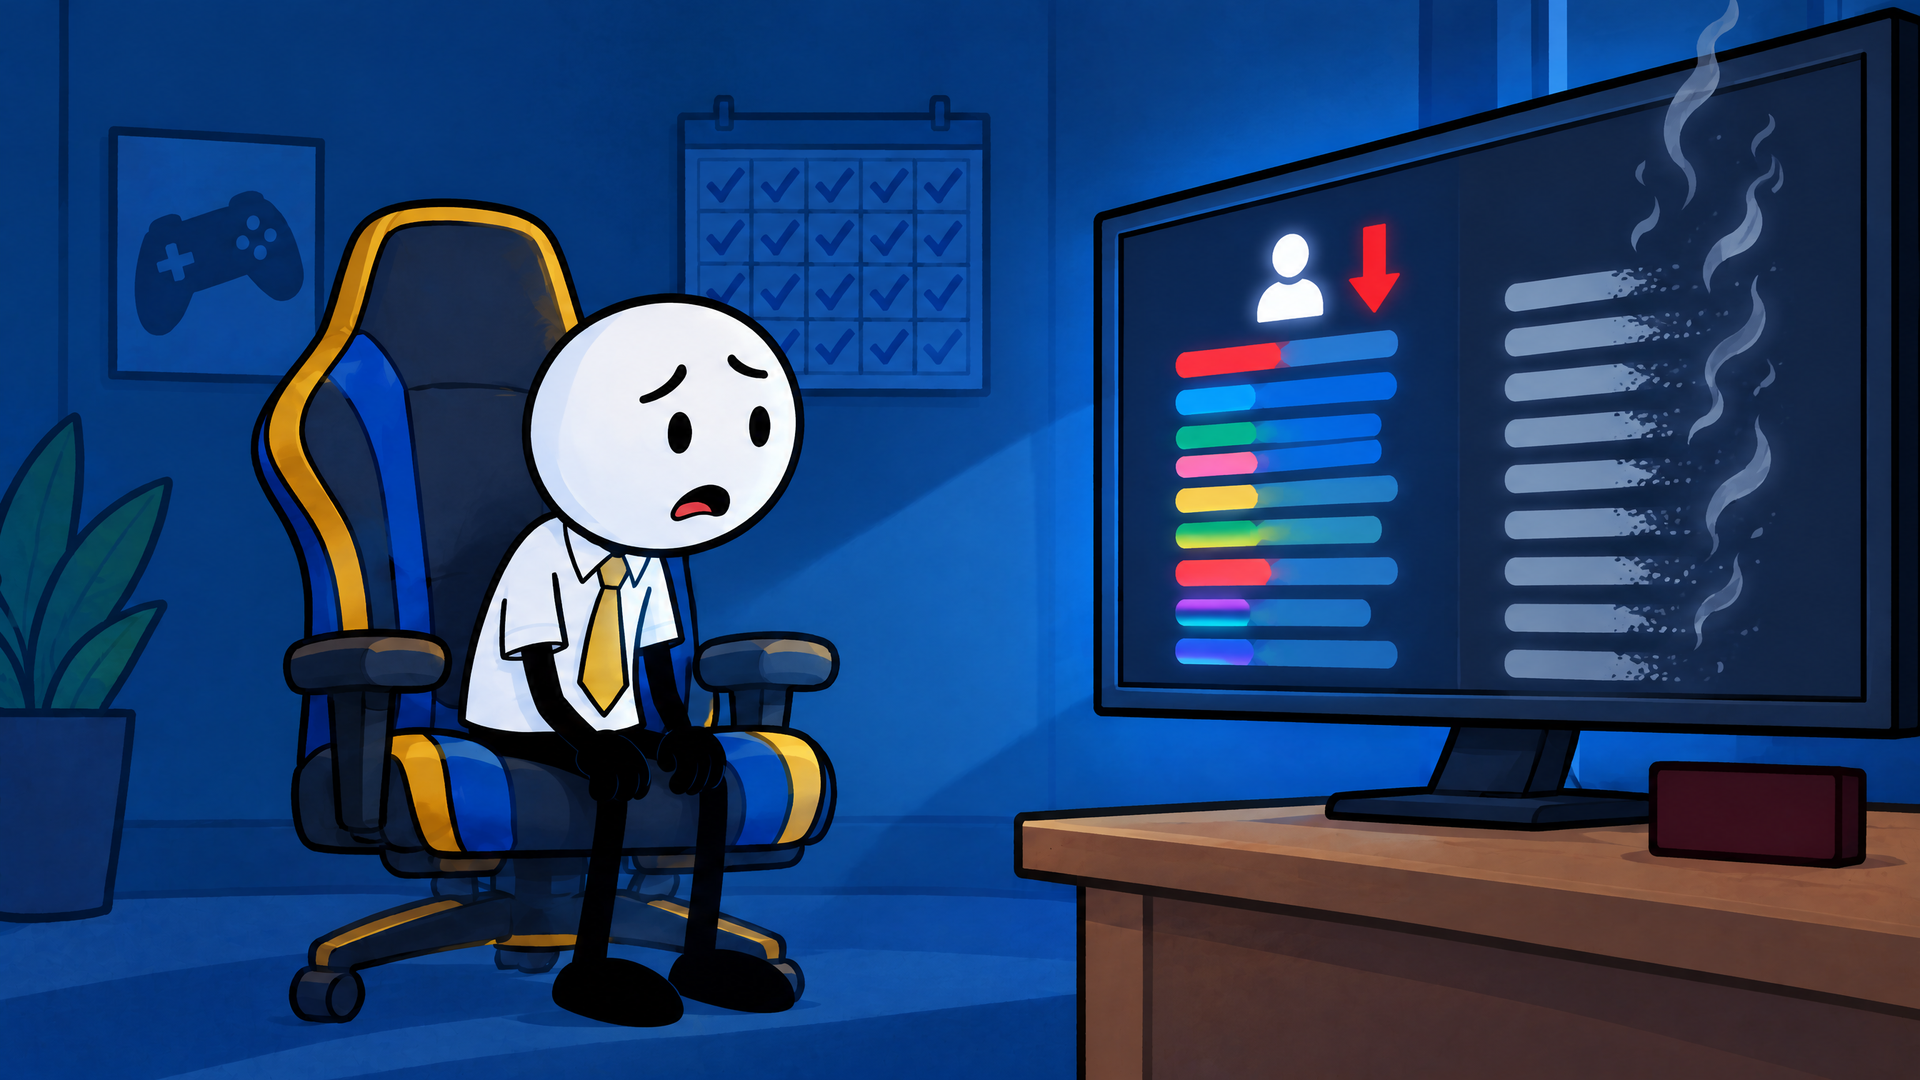
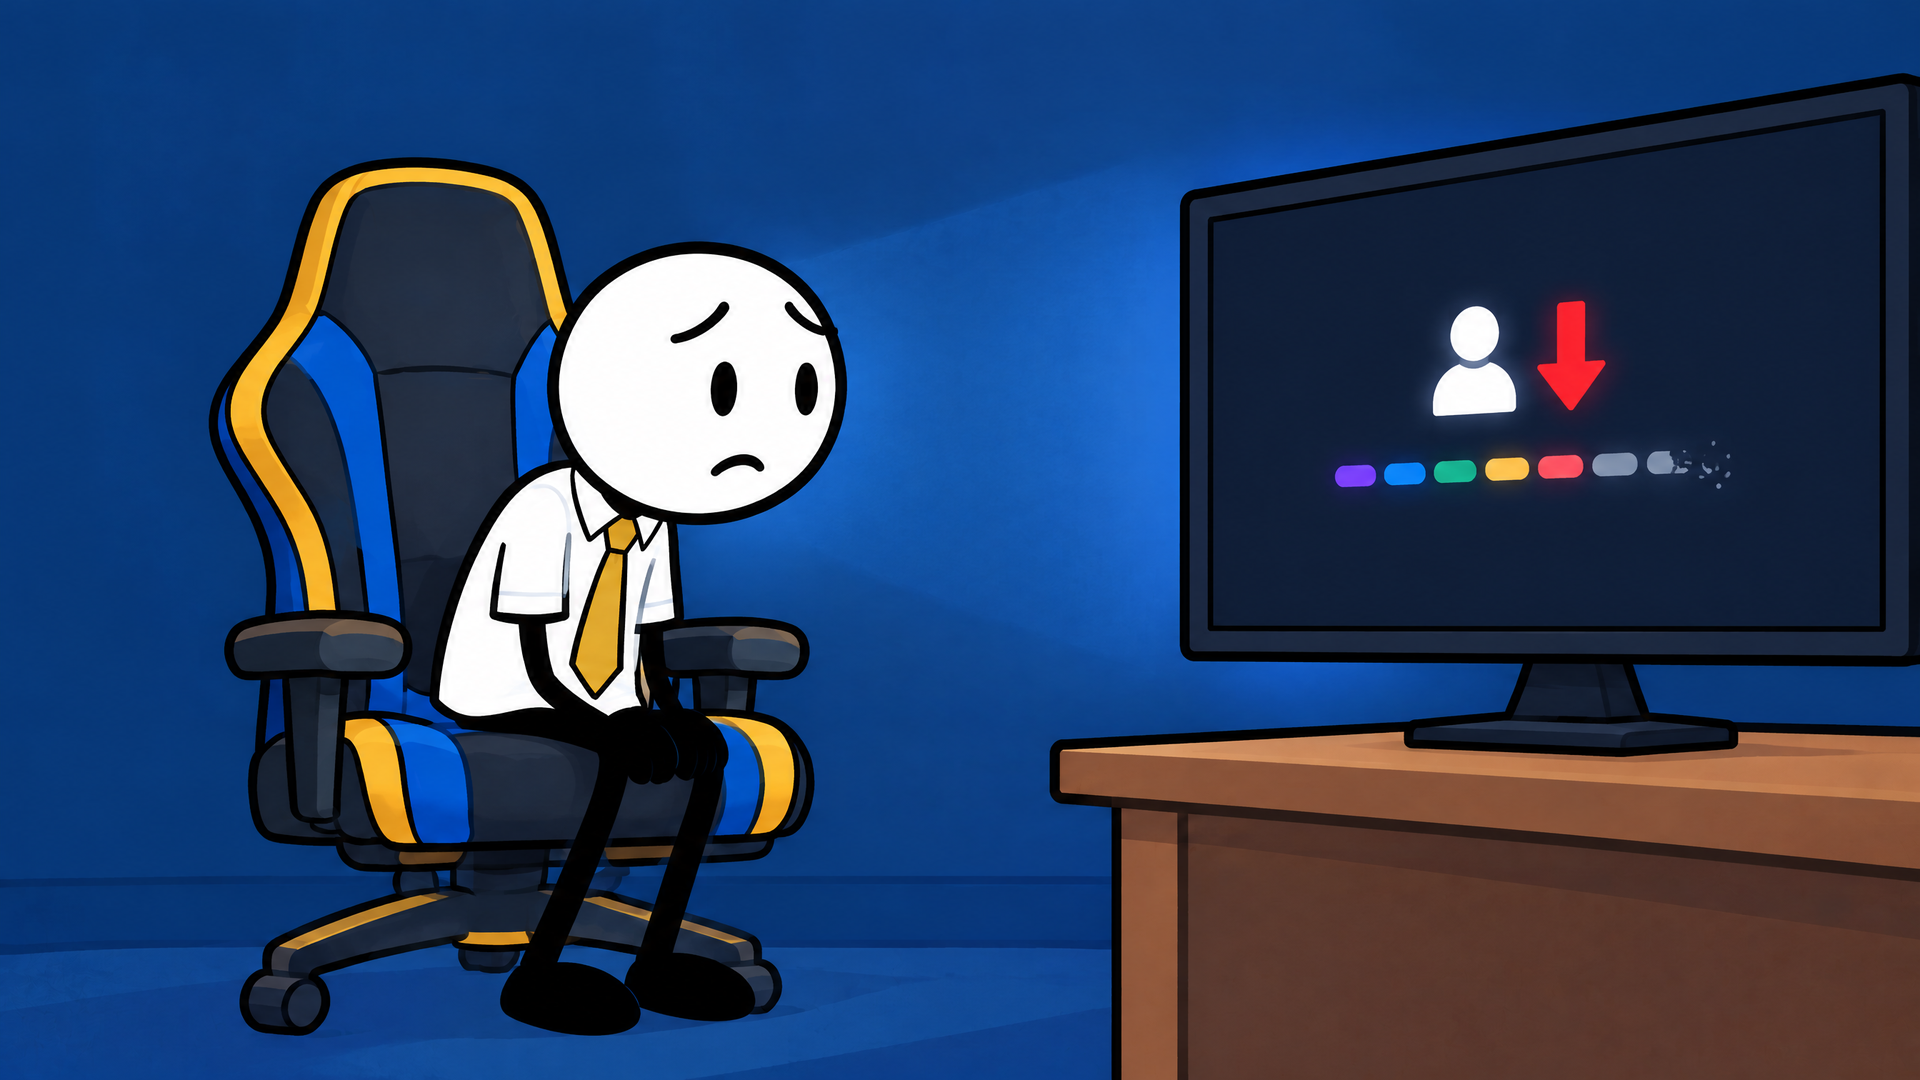
Film #2: shot 161 simple version (1 generation, 1.00); busy version archived
Claude-Session: https://claude.ai/code/session_01TbyC96566xxpJZ5s1nG9gL

diff --git a/film2-assets/STATE.md b/film2-assets/STATE.md
@@ -1,5 +1,10 @@
 # STATE — Film #2 "POV: You Became the #1 Streamer Overnight." (long-form)
 
+# STATE — SHOT 161 REPLACED BY THE SIMPLE VERSION (2026-11-11) — one generation, 1.00
+- `section5/shot-161-draining-counter.png` is now the SIMPLE version (lead slumped left, one monitor right showing only a person icon + red down arrow + ONE short row of 8 pills whose last two are gray and crumbling; bare royal-blue wall, plain wooden desk; no calendar/plant/frames/LIVE sign). Plays under "Your customers cancel themselves." / "Every thirty days.". The earlier busy version is archived as `discarded/shot-161-draining-counter-v1-busy.png` (its generation, job 987c63ef..., cost 1.00).
+- gpt_image_2_5 16:9 2k medium, price confirmed 1.00 via get_cost with refs (shot 94 composition, shot 1 lead/chair, shot 50 counter), job 846b74ed-1a11-4da1-a83b-decf418a6c79, no re-roll. All stated FAIL checks passed (viewed + face zoom). Flags: monitor is slightly 3/4 rather than strictly face-on; the lead's right eyebrow sits very close to the head outline (present, one per eye); chair backrest has no "#1" (no-text rule).
+- Balance after both shot-161 generations: 718.86.
+
 # STATE — SHOT 161 "DRAINING COUNTER" GENERATED (2026-11-11, later job) — one generation, 1.00
 - `section5/shot-161-draining-counter.png` (1920x1080): plays under "Your customers cancel themselves." / "Every thirty days." / "So how do you win it back?". gpt_image_2_5 16:9 2k medium, live price 1.00 via get_cost with refs attached, job 987c63ef-047c-4027-bb83-454c73fc0930, no re-roll. Refs: shot 94 (composition), shot 1 (lead + chair), shot 50 (counter screen), shot 9 (room).
 - All 7 FAIL checks PASSED (viewed + face zoom). Decisions/flags: (1) "no text anywhere" was applied literally, so the chair backrest has NO "#1" and the unlit LIVE box has NO lettering; the next shot's lit sign will need its letters. (2) The monitor is in 3/4 perspective, not strictly face-on. (3) Left-half pills are two-tone (color + blue fill). (4) Calendar is partly behind his head; check grid has no numbers.
